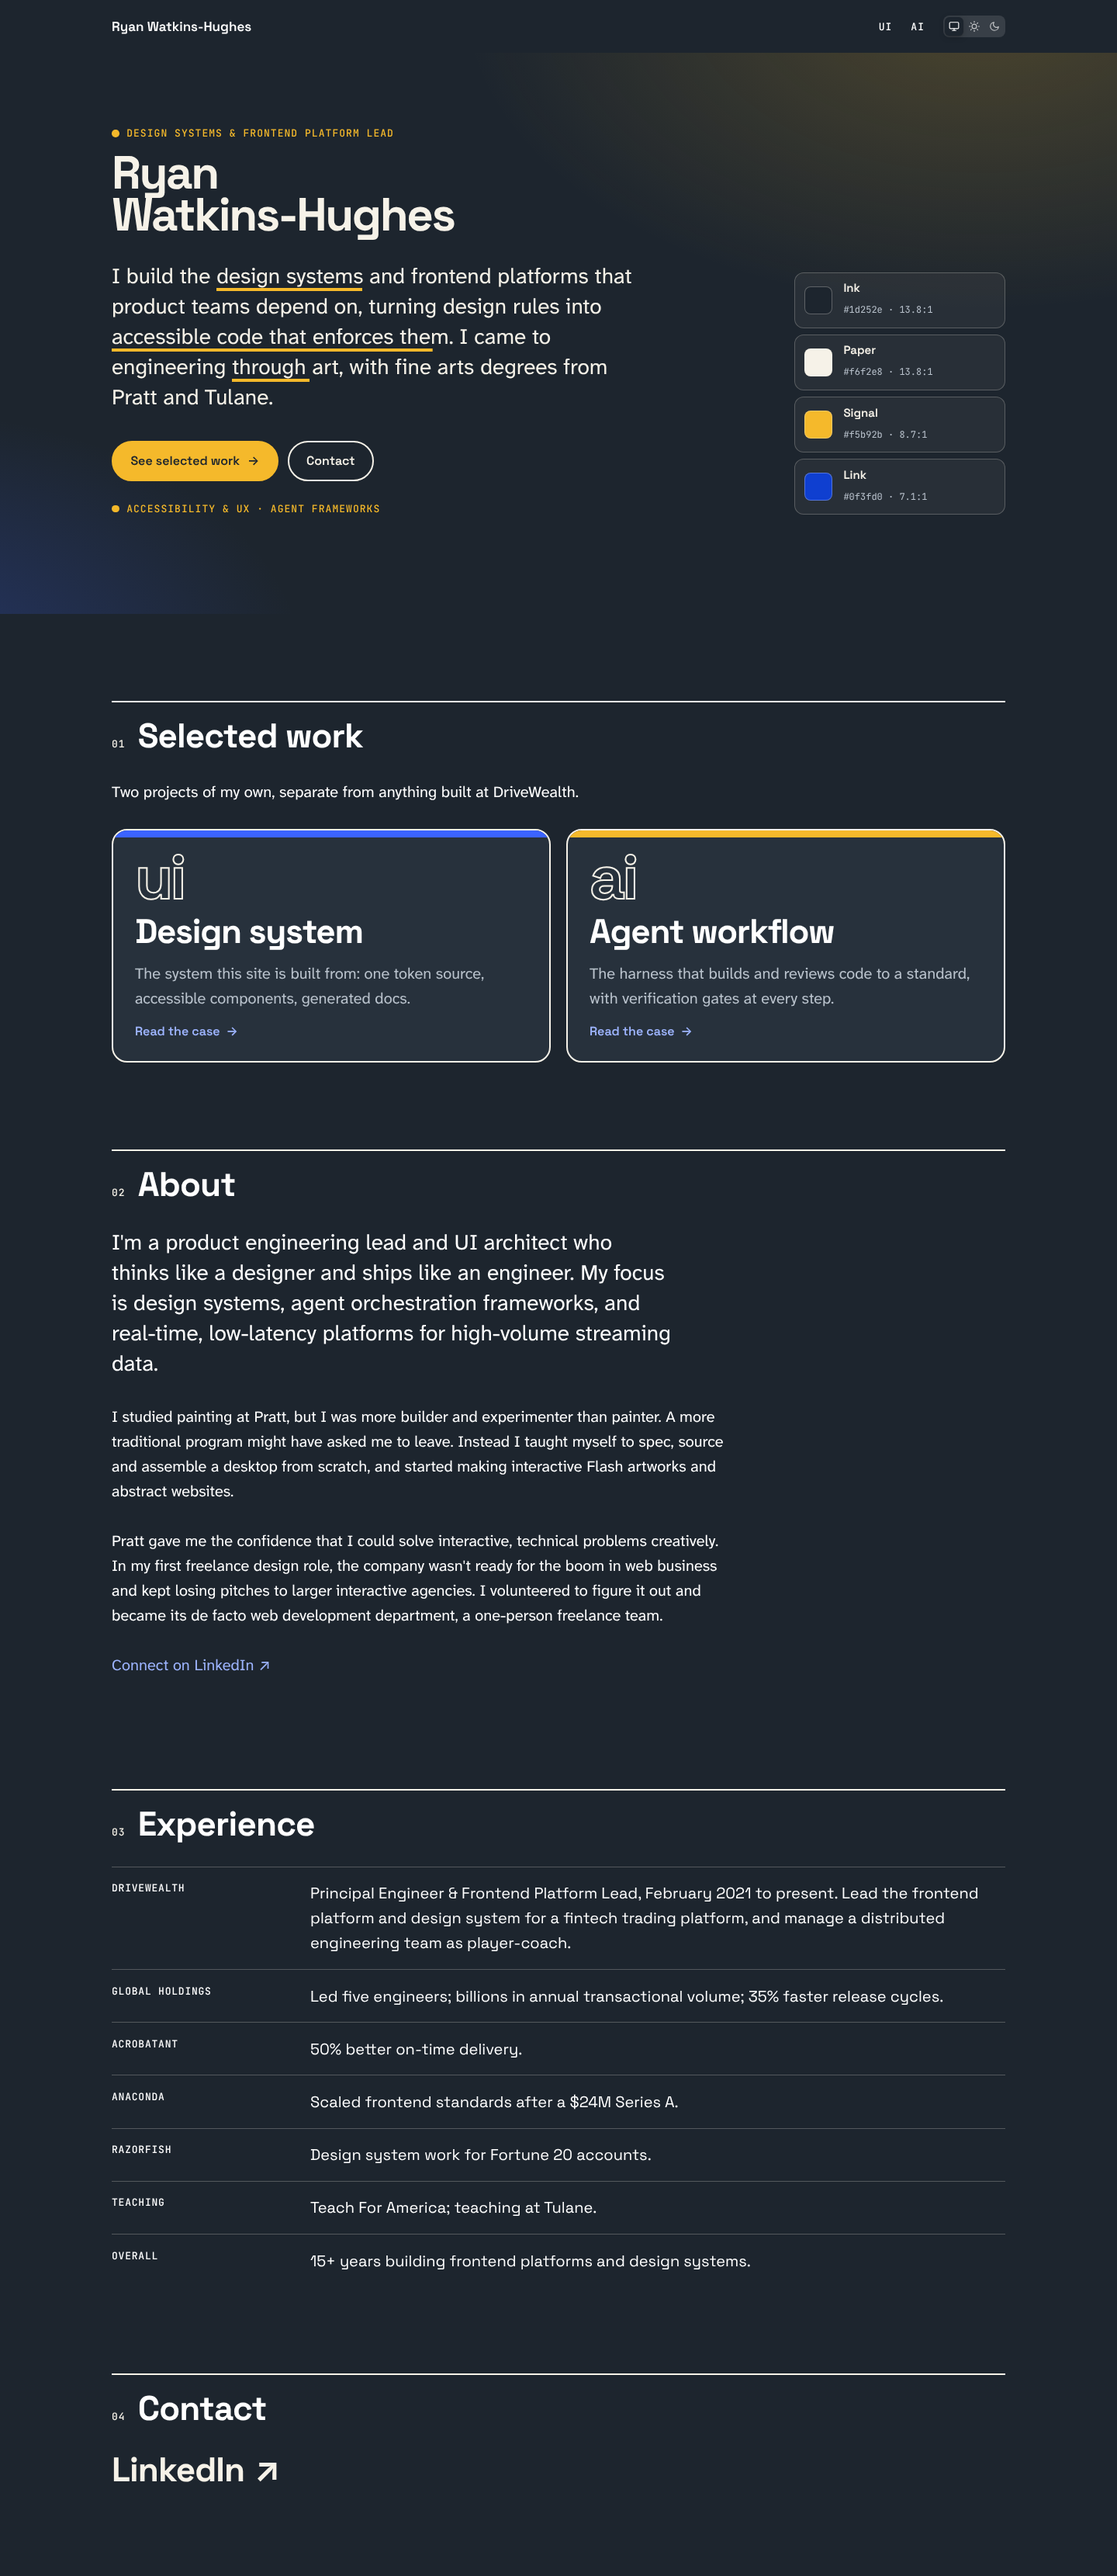
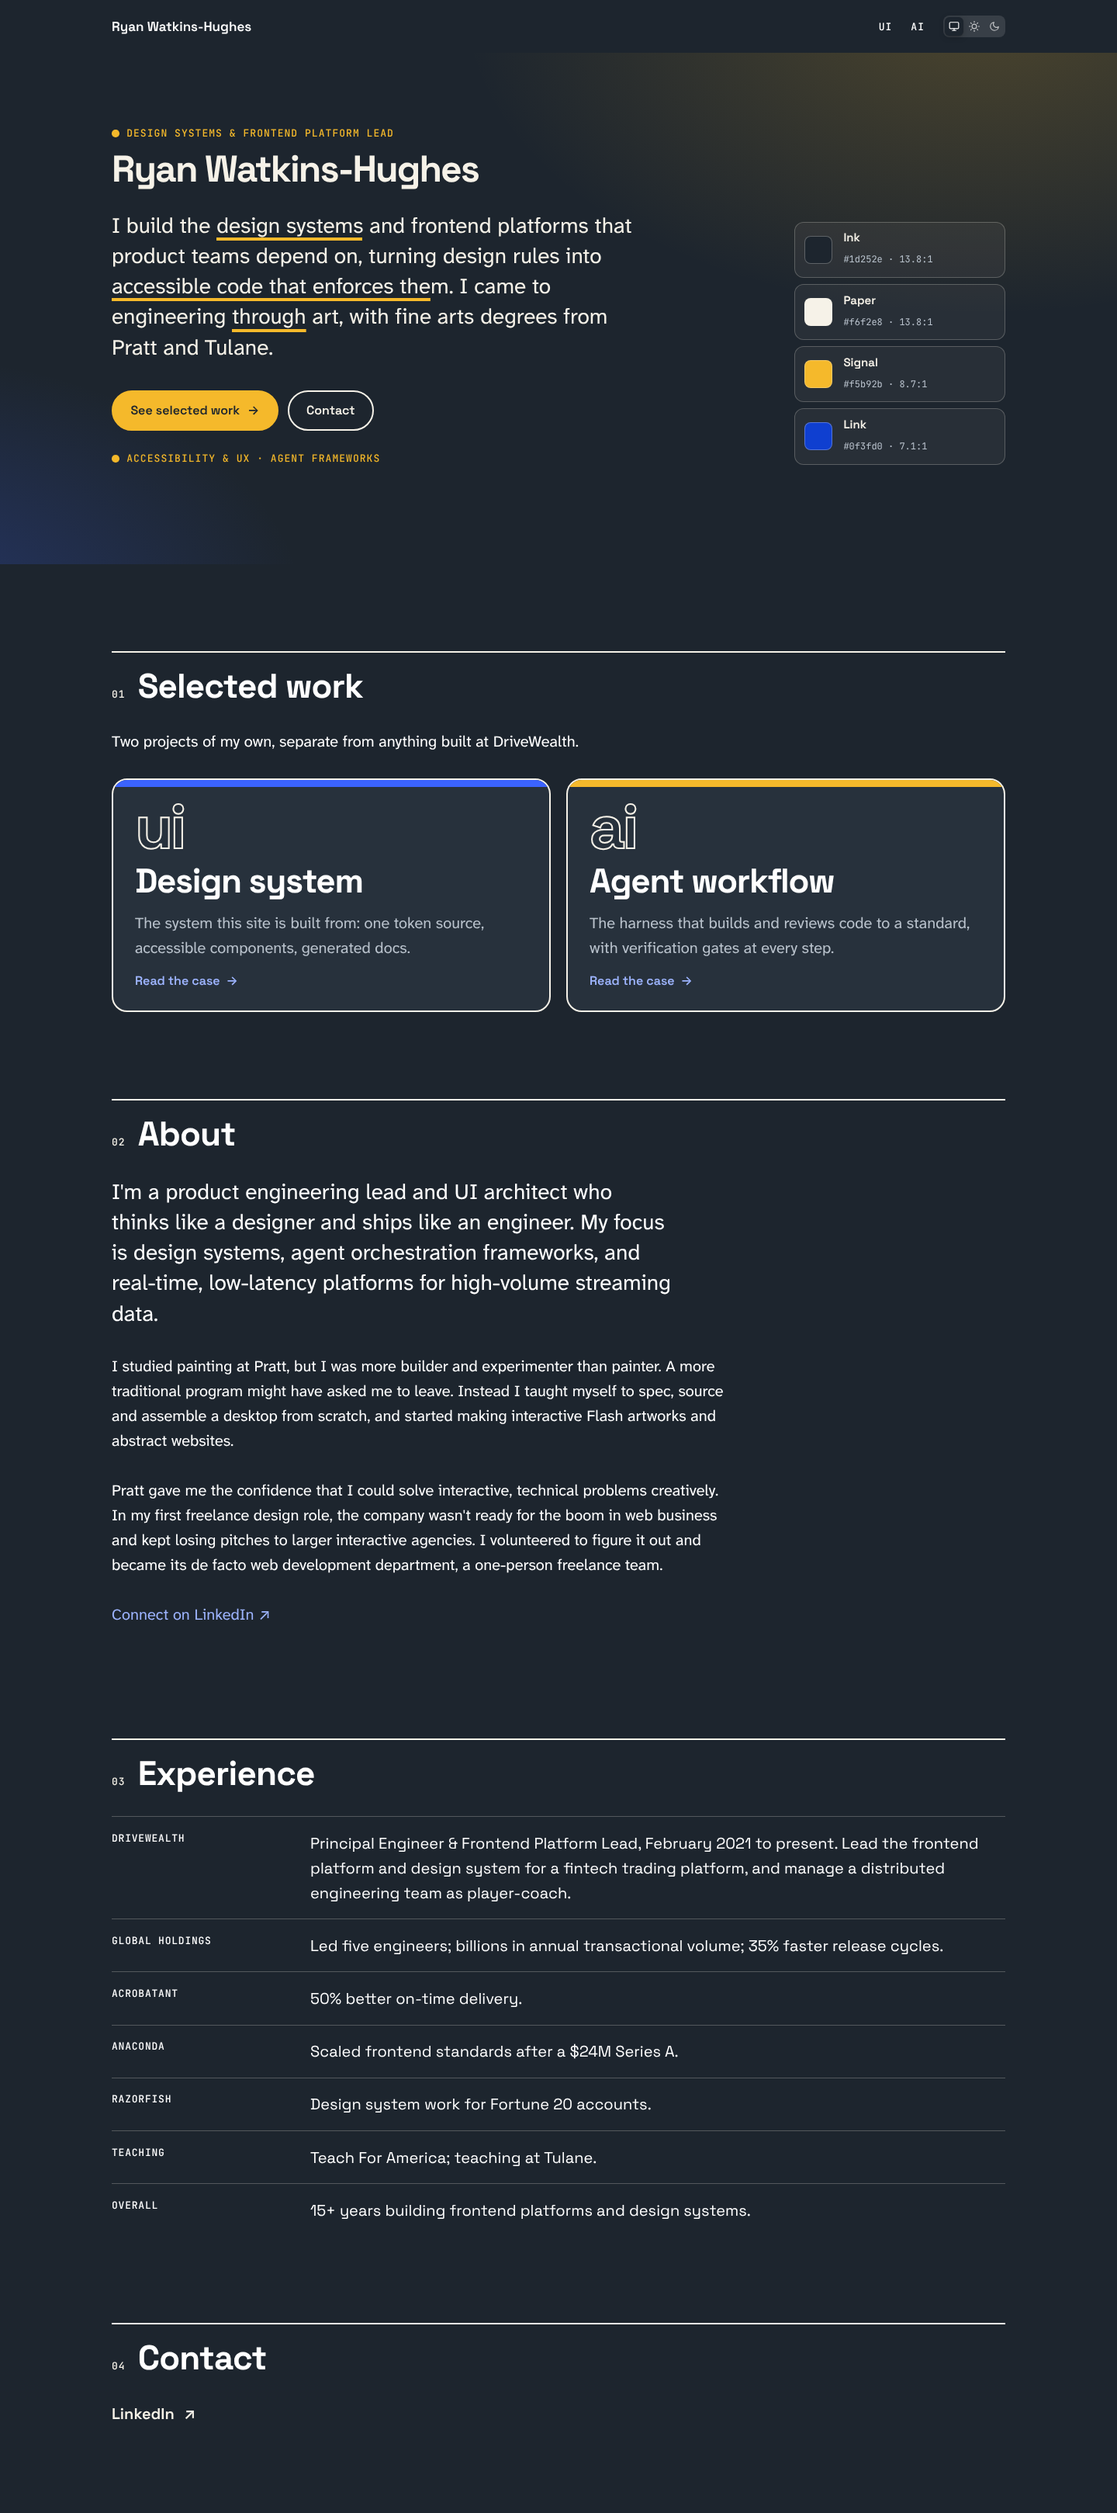
fix(home): keep name on one line, shrink hero title and contact links
Claude-Session: https://claude.ai/code/session_01Ju8PgVw3KV7GPs8CFGqYqG

diff --git a/src/styles/site.css b/src/styles/site.css
@@ -10,7 +10,7 @@
   --step-0: clamp(1.125rem, 1.05rem + 0.3vw, 1.25rem);
   --step-1: clamp(1.375rem, 1.2rem + 0.8vw, 1.75rem);
   --step-2: clamp(1.75rem, 1.4rem + 1.6vw, 2.75rem);
-  --step-hero: clamp(1.875rem, 0.94rem + 3.375vw, 3.75rem);
+  --step-hero: clamp(1.5rem, 0.6rem + 4.8vw, 3rem);
   --step-label: 0.8125rem;
   --gutter: max(1.25rem, calc((100vw - 72rem) / 2));
   --ease: cubic-bezier(0.2, 0.7, 0.2, 1);
@@ -30,7 +30,9 @@ a { color: var(--link); text-underline-offset: 0.2em; text-decoration-thickness:
 /* ── Header ─────────────────────────────────────────────────────────── */
 .site-header { position: relative; z-index: 2; display: flex; align-items: center; justify-content: space-between; gap: 1rem; padding: 1.25rem var(--gutter); }
 .site-header a { color: inherit; text-decoration: none; font: 600 1.0625rem var(--font-display); }
+.site-header a:first-child { white-space: nowrap; }
 .site-header nav { display: flex; align-items: center; gap: 1.5rem; }
+@media (max-width: 30rem) { .site-header { gap: 0.5rem; } .site-header nav { gap: 0.75rem; } }
 .nav-link { position: relative; font-family: var(--font-mono) !important; font-weight: 500 !important; font-size: var(--step-label) !important; letter-spacing: 0.08em; text-transform: uppercase; }
 .nav-link::after { content: ""; position: absolute; inset: auto 0 -0.35em; height: 2px; background: var(--signal); transform: scaleX(0); transform-origin: left; }
 .nav-link:hover::after, .nav-link[aria-current="page"]::after { transform: scaleX(1); }
@@ -48,7 +50,8 @@ a { color: var(--link); text-underline-offset: 0.2em; text-decoration-thickness:
 .hero .label { color: var(--signal); display: flex; align-items: center; gap: 0.6rem; }
 .hero .label::before { content: ""; width: 0.6rem; height: 0.6rem; border-radius: 50%; background: var(--signal); }
 .hero h1 { margin: 1rem 0 0; font: 700 var(--step-hero) / 0.9 var(--font-display); letter-spacing: -0.04em; }
-.hero h1 span { display: block; }
+.hero h1 { white-space: nowrap; }
+.hero h1 span { display: inline-block; }
 .lead { max-width: 38ch; margin: 2rem 0 0; font: 400 var(--step-1) / 1.4 var(--font-body); }
 .hl { padding-bottom: 0.06em; background: linear-gradient(var(--signal), var(--signal)) 0 100% / 100% 0.16em no-repeat; }
 .cta { display: flex; flex-wrap: wrap; gap: 0.75rem; margin-top: 2.25rem; }
@@ -99,7 +102,7 @@ main { outline: none; }
 .todo { max-width: 62ch; border: 2px dashed color-mix(in oklab, var(--fg) 40%, transparent); border-radius: 0.75rem; padding: 0.75rem 1rem; color: var(--muted); }
 
 .contact-links { list-style: none; margin: 0; padding: 0; display: grid; gap: 0.5rem; }
-.contact-links a { display: inline-flex; gap: 0.75rem; align-items: baseline; font: 700 var(--step-2) / 1.1 var(--font-display); letter-spacing: -0.02em; color: var(--fg); text-decoration-color: var(--signal); text-decoration-thickness: 0.12em; }
+.contact-links a { display: inline-flex; gap: 0.75rem; align-items: baseline; font: 600 var(--step-0) / 1.4 var(--font-display); color: var(--fg); text-decoration-color: var(--signal); text-decoration-thickness: 0.12em; }
 .contact-links a:hover { color: var(--link); }
 
 figure { margin: 1rem 0; } pre { overflow-x: auto; padding: 1rem; border: 1px solid currentColor; } img, video { max-width: 100%; height: auto; }

diff --git a/src/routes/pages.tsx b/src/routes/pages.tsx
@@ -54,7 +54,7 @@ export function HomePage() {
           <div>
             <p className="label rise" style={{ "--i": 0 } as CSSProperties}>{site.title}</p>
             <h1 id="hero-h">
-              <span className="rise" style={{ "--i": 1 } as CSSProperties}>Ryan</span>
+              <span className="rise" style={{ "--i": 1 } as CSSProperties}>Ryan</span>{" "}
               <span className="rise" style={{ "--i": 2 } as CSSProperties}>Watkins-Hughes</span>
             </h1>
             <p className="lead rise" style={{ "--i": 3 } as CSSProperties}>
